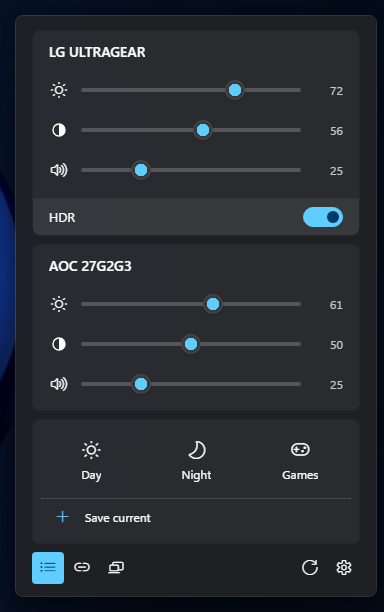
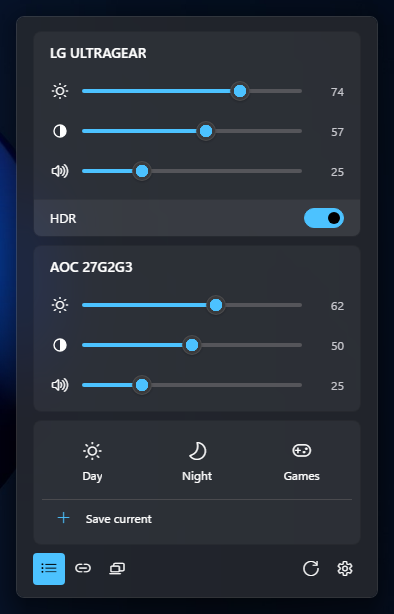
docs: refresh flyout screenshots
Retaken with the acrylic flyout and mock monitors; the linked screenshot no longer shows profiles.

diff --git a/README.ru.md b/README.ru.md
@@ -26,7 +26,7 @@
 
 <img src="assets/flyout.png" alt="Flyout Lumza с двумя мониторами" width="300">
 &nbsp;&nbsp;
-<img src="assets/flyout-linked.png" alt="Flyout Lumza со связанными ползунками и профилями" width="300">
+<img src="assets/flyout-linked.png" alt="Flyout Lumza со связанными ползунками" width="300">
 
 </div>
 

diff --git a/README.md b/README.md
@@ -26,7 +26,7 @@
 
 <img src="assets/flyout.png" alt="The Lumza flyout with two monitors" width="300">
 &nbsp;&nbsp;
-<img src="assets/flyout-linked.png" alt="The Lumza flyout with linked sliders and profiles" width="300">
+<img src="assets/flyout-linked.png" alt="The Lumza flyout with linked sliders" width="300">
 
 </div>
 
